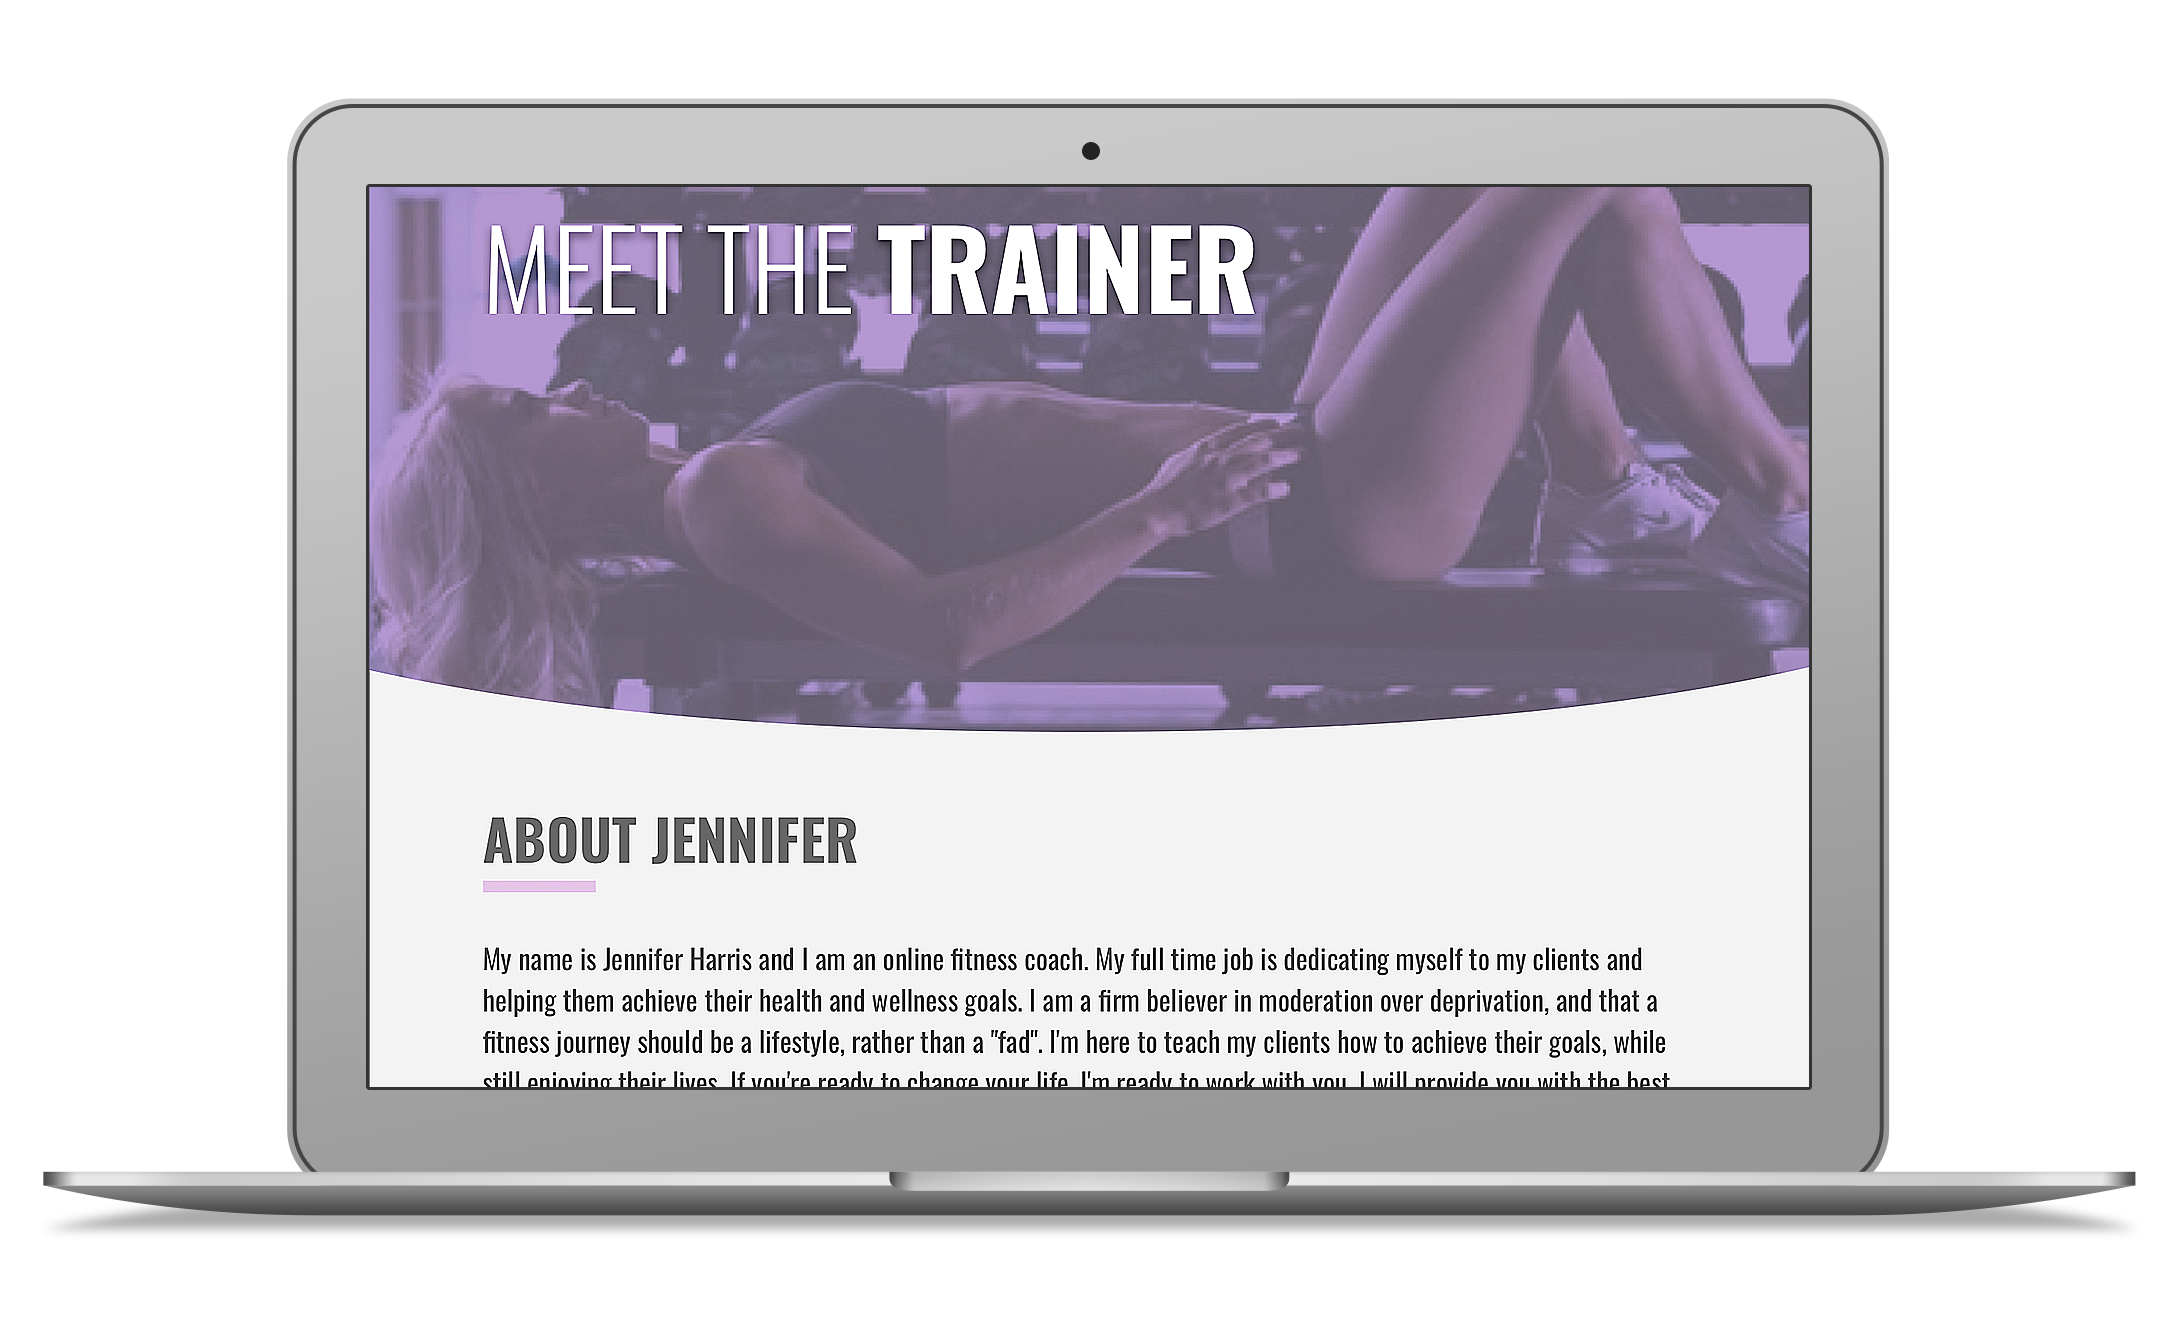
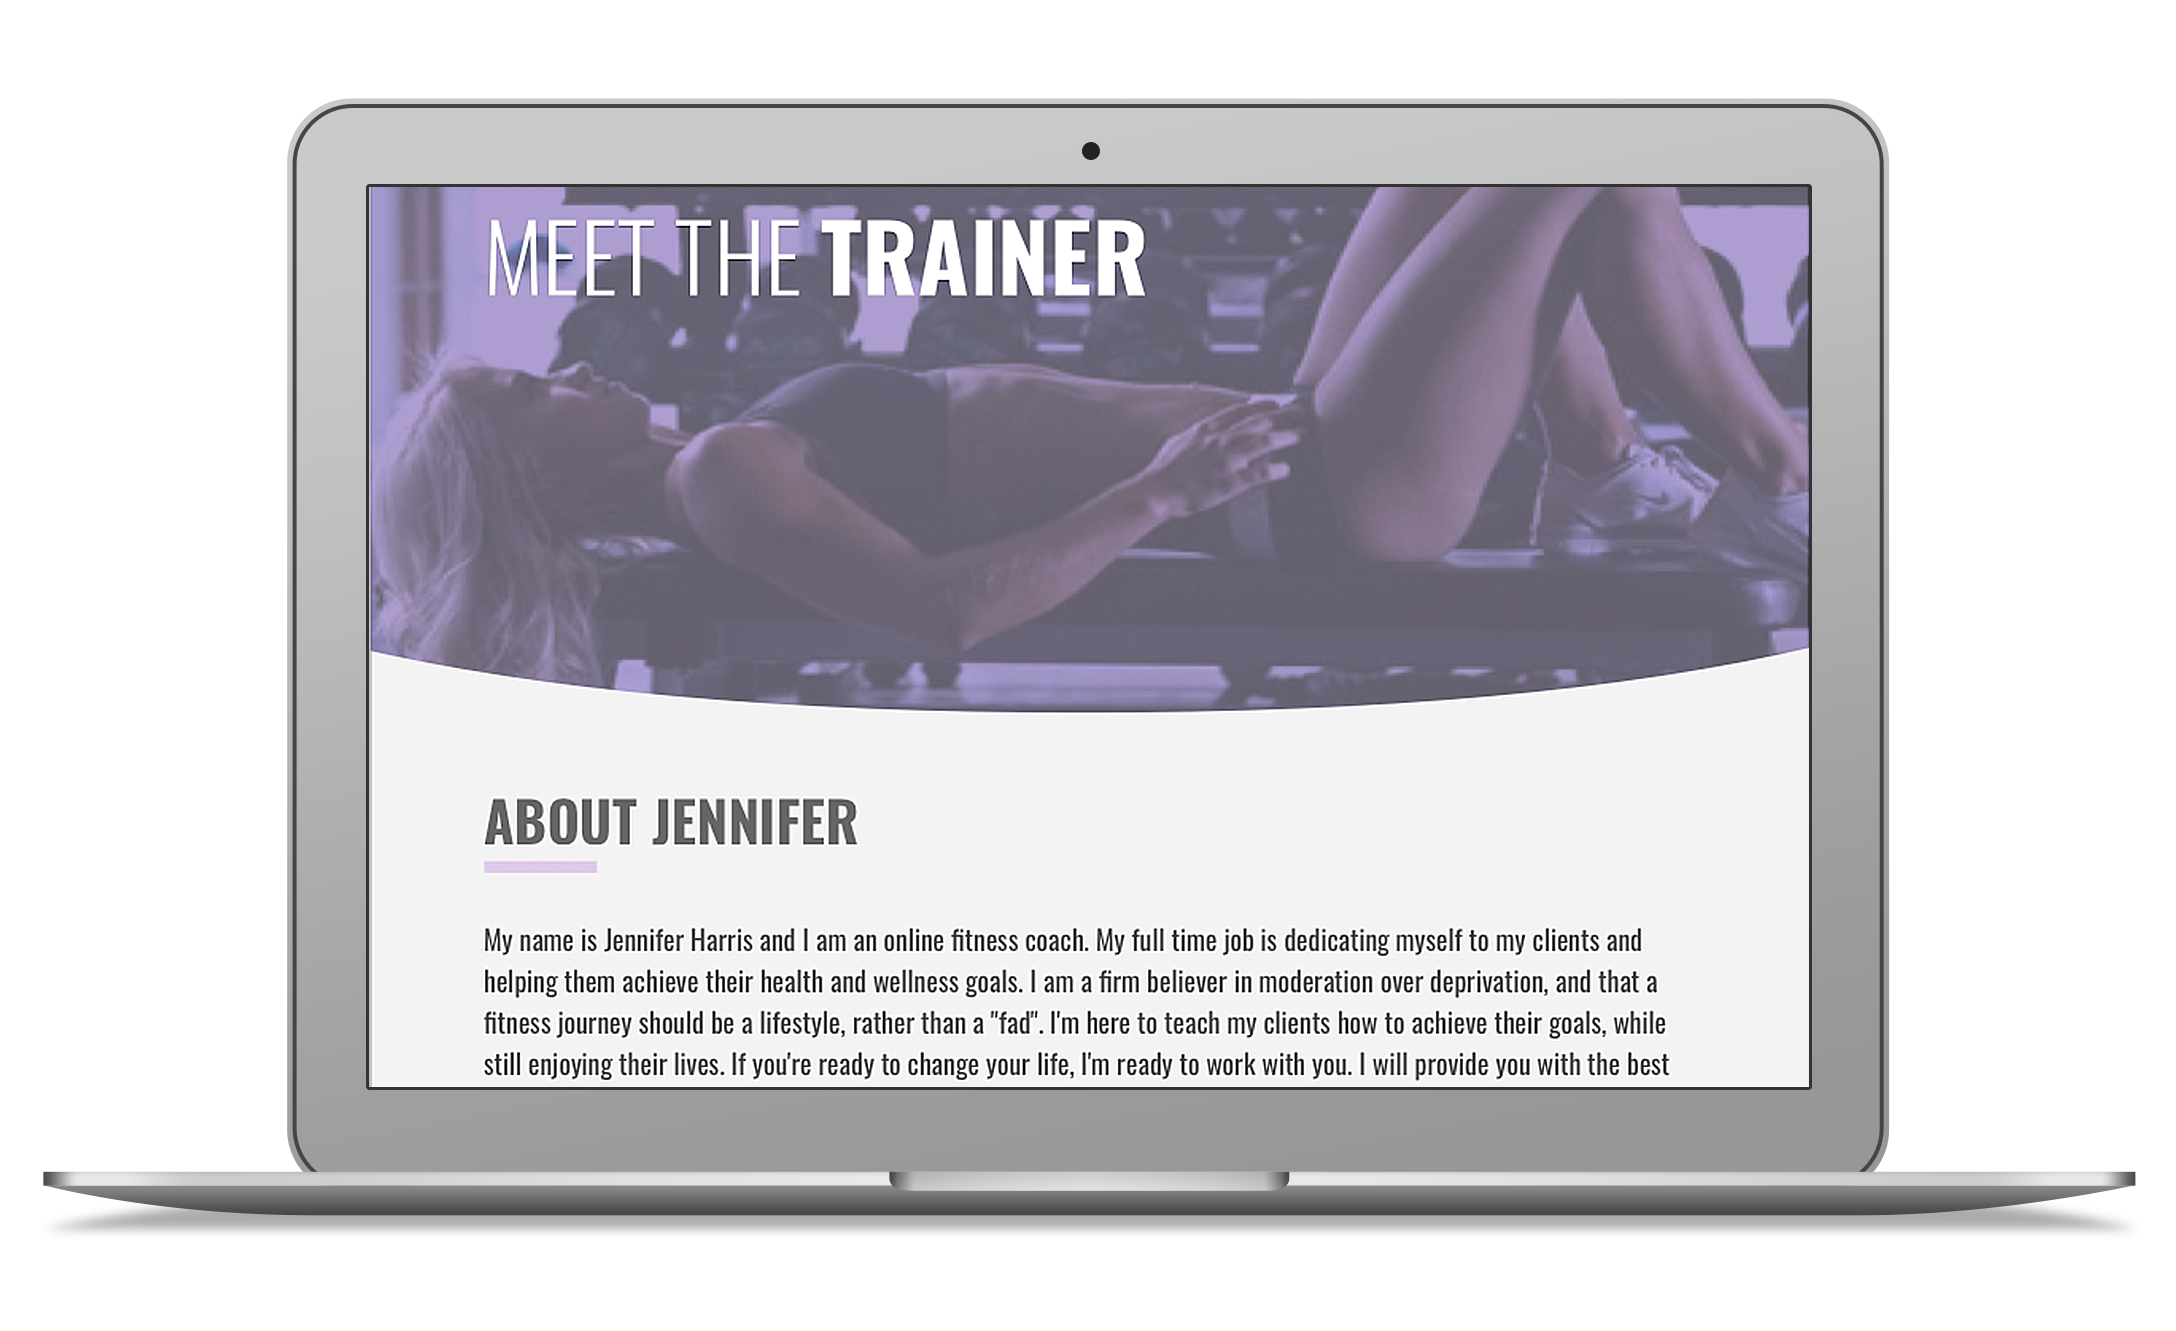
background image

diff --git a/style.css b/style.css
@@ -54,6 +54,10 @@ a {
     display: flex;
     justify-content: center;
     align-items: center;
+    background-image: url(imgs/bg.png);
+    background-repeat: no-repeat;
+    background-size:contain;
+    background-position: center;
 }
 
 #title {
